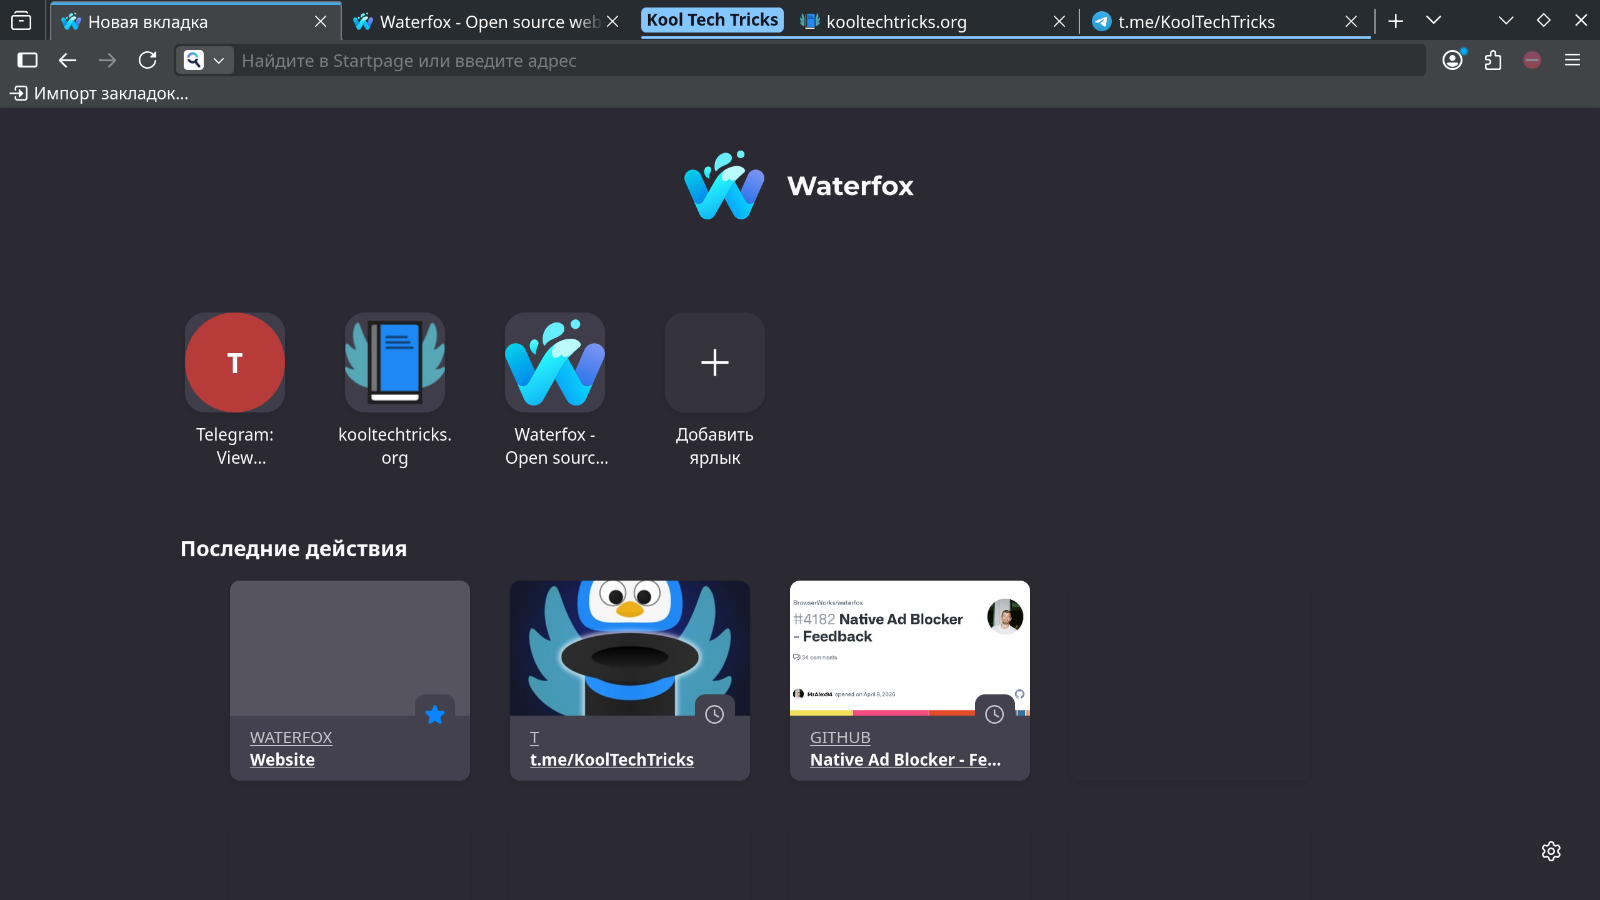
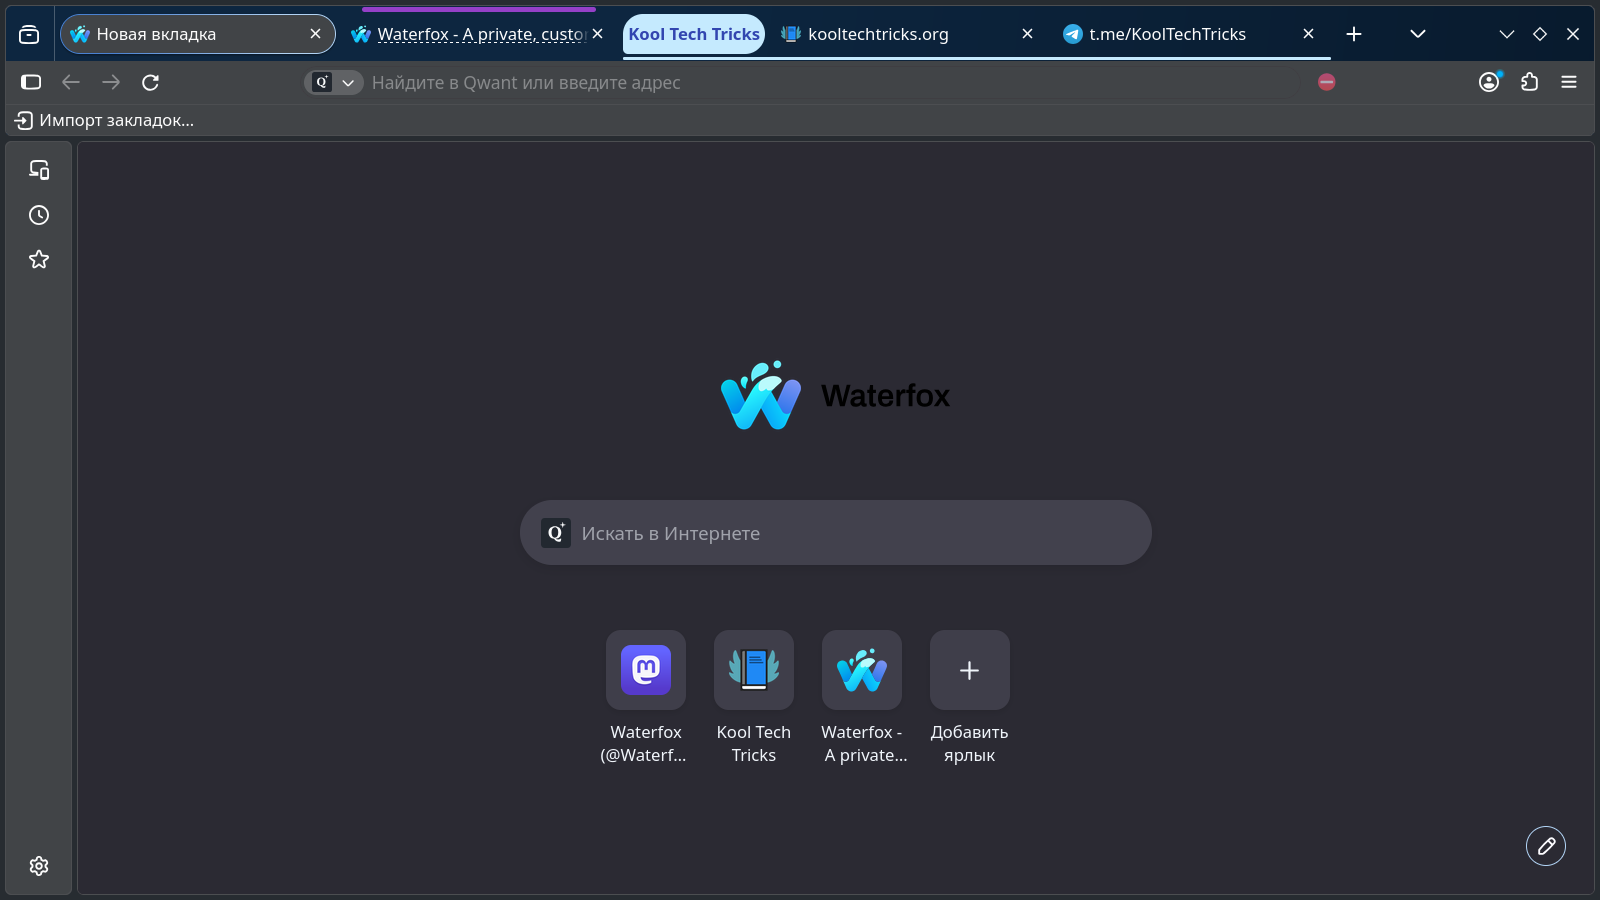
c/browsers-desktop: Waterfox 6.7

diff --git a/content/collections/browsers-desktop.md b/content/collections/browsers-desktop.md
@@ -2,7 +2,7 @@
 title: Браузеры для компьютера
 fancyTitle: Рекомендованные браузеры для компьютера
 publishDate: 2025-08-07T15:49:00Z
-lastmod: 2026-08-02T13:49:00Z
+lastmod: 2026-08-22T17:37:00Z
 contributors: [kttrickster]
 image: /assets/hero/browsers-desktop.webp
 imageAlt: Различные браузеры
@@ -95,12 +95,10 @@ arkenfox и конфигурации Firefox.
 
 {{< card waterfox >}}
 
-Основан на Firefox ESR (старая, но поддерживаемая версия). Интерфейс похож на
-старый дизайн Firefox 2017—2021 годов (Photon UI). Некоторые элементы внешнего
-вида можно изменить в настройках.
-
-Встроено расширение Tree Style Tab, с которым можно включить древовидный стиль
-вкладок. Можно открывать отдельные вкладки в режиме «Инкогнито».
+Внешний вид по умолчанию — современный дизайн Nova, но можно вернуть предыдущие
+Proton (2021–2026) и Photon (2017–2021). Доступно древовидное отображение
+вкладок, подобно расширению Tree Style Tab. Можно открывать отдельные вкладки в
+режиме «Инкогнито».
 
 Удалены лишние службы Mozilla, телеметрия и функции на основе искусственного
 интеллекта. DNS over HTTPS (DoH) включён на максимальный уровень. Встроен
